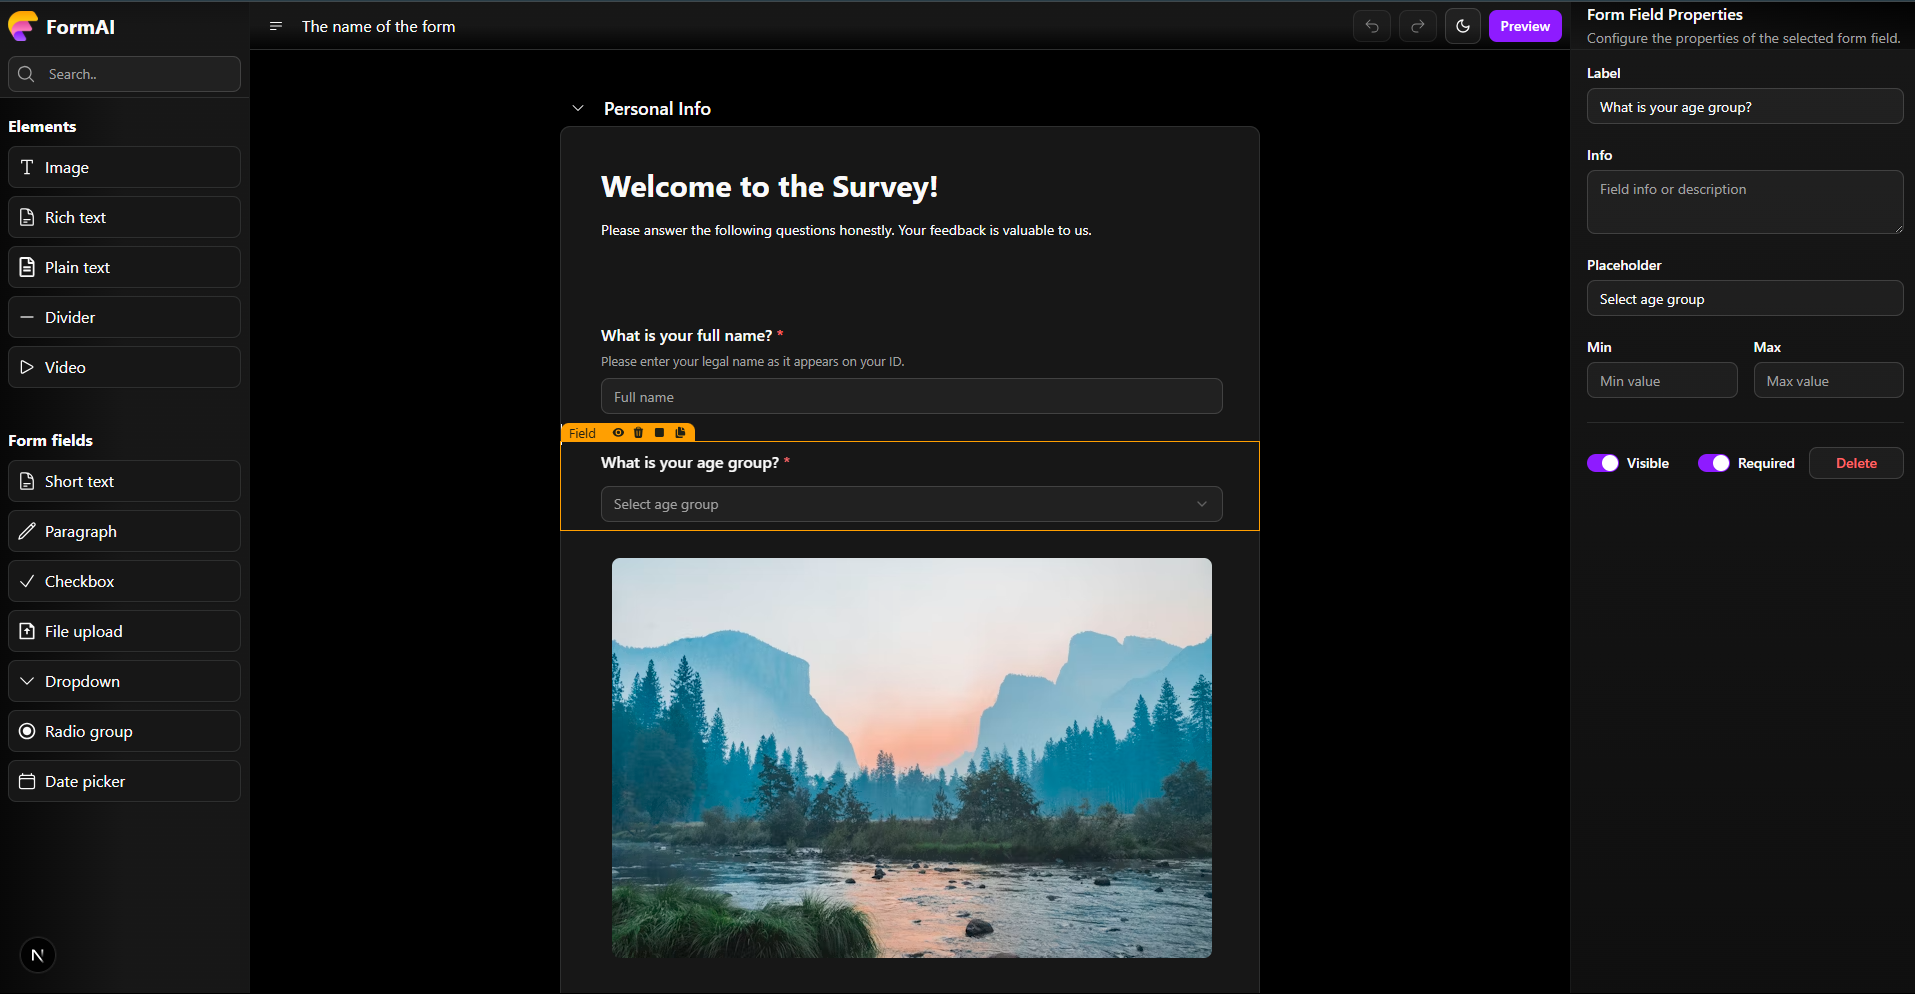
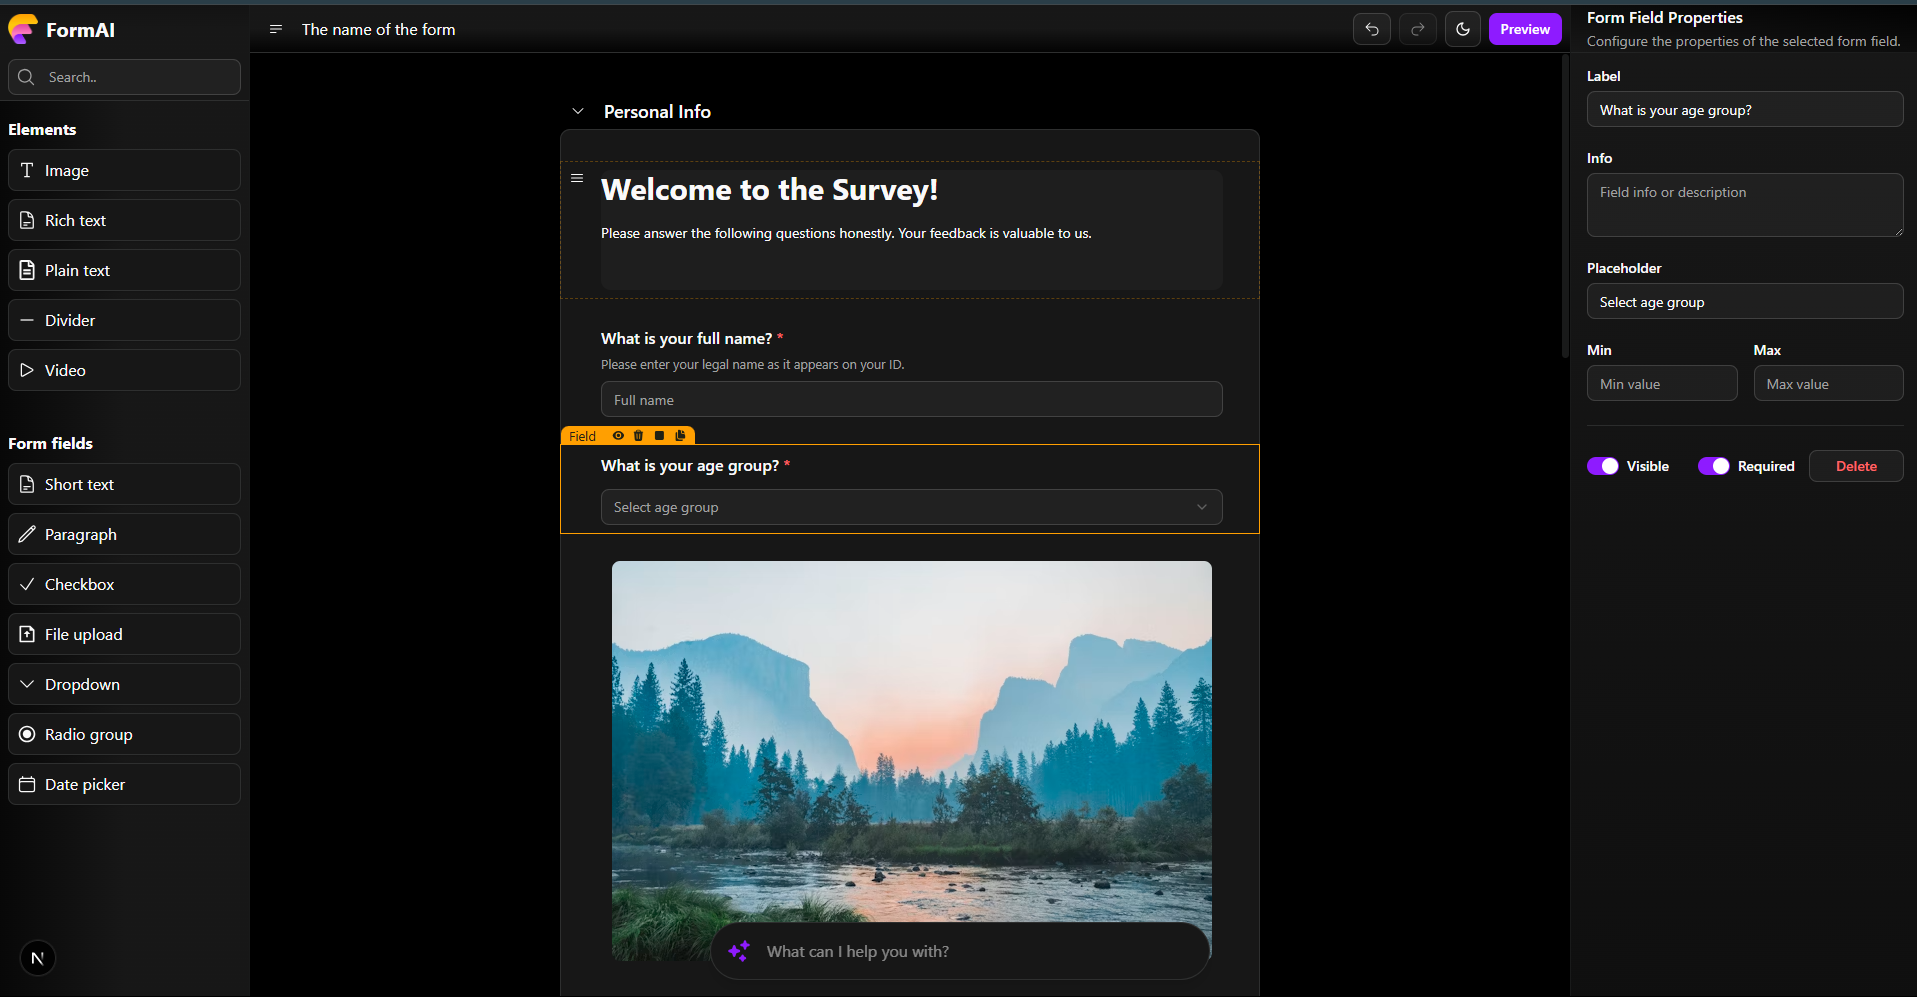
feat: add AIChat component and integrate it into FormBuilder layout

diff --git a/components/AIChat.tsx b/components/AIChat.tsx
@@ -1,0 +1,48 @@
+import { cn } from '@/lib/utils';
+import React, { useEffect, useState } from 'react'
+import { HiMiniSparkles } from 'react-icons/hi2'
+
+export default function AIChat() {
+    const [open, setOpen] = useState(true);
+    const [hasResponse, setHasResponse] = useState(false);
+    const inputRef = React.useRef<HTMLInputElement>(null);
+
+    useEffect(() => {
+        if (open) {
+            setTimeout(() => {
+                inputRef.current?.focus();
+            }, 100);
+        }
+    }, [open]);
+
+    return (
+        <>
+            <div
+                className={cn('min-h-14 w-14 z-[60] fixed left-1/2 border bg-sidebar -translate-x-1/2 bottom-4 transition-all duration-300 flex items-center shadow-lg rounded-full overflow-hidden', {
+                    "w-[500px]": open,
+                    "rounded-lg gap-4 flex-col": hasResponse
+                })}
+            >
+                <div className='flex'>
+                    <div
+                        onClick={() => setOpen(!open)}
+                        className="h-14 min-w-14 flex items-center justify-center text-2xl rounded-full z-50 text-primary cursor-pointer transition-colors duration-300"
+                    >
+                        <HiMiniSparkles />
+                    </div>
+                    {
+                        open && hasResponse && <div className={cn('min-h-52 transition-all duration-300 flex-1 overflow-y-auto flex flex-col gap-2 py-2')}>
+                        Lorem ipsum, dolor sit amet consectetur adipisicing elit. Perferendis quidem dolor nemo culpa repellat neque non inventore, delectus quasi doloremque dolores dolore iure. Animi, natus voluptatum quam numquam aut dicta.
+                    </div>
+                    }
+                </div>
+                <input
+                    ref={inputRef}
+                    autoFocus={open}
+                    className={cn('w-[80%] outline-none border-none', { 'hidden absolute': !open, "mb-4": hasResponse })}
+                    placeholder='What can I help you with?'
+                />
+            </div>
+        </>
+    )
+}

diff --git a/components/builder/FormBuilder.tsx b/components/builder/FormBuilder.tsx
@@ -7,6 +7,7 @@ import { usePreview } from '@/hooks/usePreview';
 import React from 'react';
 import BuilderRightPanel from "./layout/BuilderRightPanel";
 import { ScrollArea } from "../ui/scroll-area";
+import AIChat from "../AIChat";
 
 export default function FormBuilder() {
     const sensors = useSensors(
@@ -83,9 +84,9 @@ export default function FormBuilder() {
         <BuilderLeftPanel />
         <div className={'flex-1 h-screen flex flex-col items-center bg-background'}>
             <BuilderHeader />
-            <ScrollArea className="h-[calc(100vh-3rem)] overflow-y-auto w-full">
+            <ScrollArea className="h-[calc(100vh-3rem)] overflow-y-auto w-full relative">
                 <DndContext sensors={sensors} collisionDetection={closestCenter} onDragEnd={handleDragEnd} onDragOver={handleDragOver}>
-                    <div onDrop={handleDrop} onDragOver={e => e.preventDefault()} className="w-full h-full flex-1 flex flex-col items-center">
+                    <div onDrop={handleDrop} onDragOver={e => e.preventDefault()} className="w-full h-full flex-1 flex flex-col items-center ">
                         <BuilderPreview
                             updateFormField={updateFormField}
                             steps={steps}
@@ -111,9 +112,11 @@ export default function FormBuilder() {
                             reorderFormGroupItem={(fromIndex, toIndex) => {
                                 reorderFormGroupItem('', fromIndex, toIndex);
                             }}
-                         />
+                        />
+                        <div className="h-40" />
                     </div>
                 </DndContext>
+                <AIChat />
             </ScrollArea>
         </div>
         <BuilderRightPanel />
